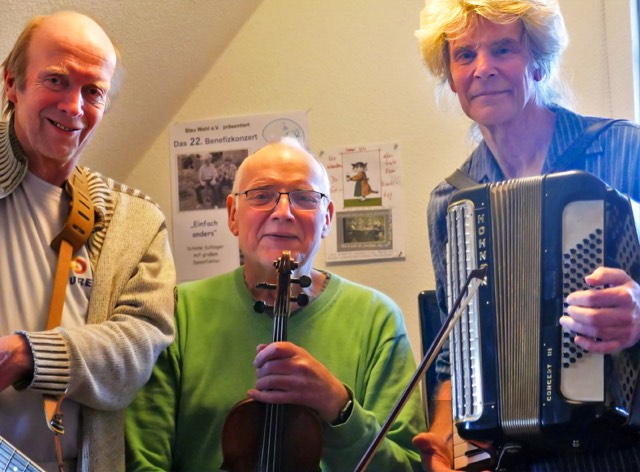
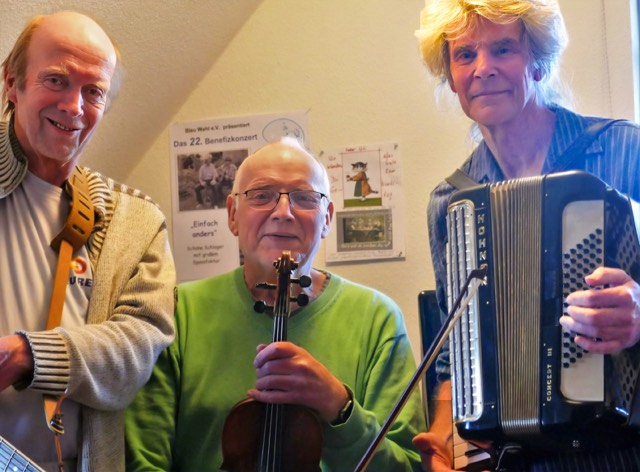
Zweite Endfassung des Oberschliesser-Fotos von Uli
Feine Nachbesserung an Wand und Gesichtern (mittlere Abweichung rund
zwei Stufen von 255). Web-Fassung und Vorschaubild neu gerechnet,
Original als E-Uli-Endfassung-2-original.jpg bei den Varianten.

Claude-Session: https://claude.ai/code/session_014QFZ63DHSQGqZuoW9yPC8P

Changed region(s): [[0.3438, 0.2966, 0.5, 0.5636], [0.4688, 0.5042, 0.5, 0.5339]]

diff --git a/fotos.html b/fotos.html
@@ -46,7 +46,7 @@
       <figure class="tack"><img src="bilder/manni-kehr-klein.jpg?v=1787141324" data-gross="bilder/manni-kehr.jpg?v=1787141324" alt="Manni Kehr mit Mandola im Grünen" loading="lazy"><figcaption>Manni Kehr</figcaption></figure>
       <figure class="tack"><img src="bilder/manni-solo-klein.jpg?v=1787760422" data-gross="bilder/manni-solo.jpg?v=1787760422" alt="Manni Kehr singt mit der Mandola am Mikrofon auf der Bühne" loading="lazy"><figcaption>Manni Kehr am Mikrofon</figcaption></figure>
       <figure class="tack"><img src="bilder/manni-mittelalter-klein.jpg?v=1787760422" data-gross="bilder/manni-mittelalter.jpg?v=1787760422" alt="Manni Kehr im mittelalterlichen Gewand an der Drehleier, neben ihm eine Ritterrüstung" loading="lazy"><figcaption>An der Drehleier</figcaption></figure>
-      <figure class="tack"><img src="bilder/oberschliesser-klein.jpg?v=1788200584" data-gross="bilder/oberschliesser.jpg?v=1788200584" alt="Drei Musiker mit Gitarre, Geige und Akkordeon nebeneinander, rechts Uli Preuss" loading="lazy"><figcaption>Die Arrested Amtsbrüder &amp; der Oberschließer</figcaption></figure>
+      <figure class="tack"><img src="bilder/oberschliesser-klein.jpg?v=1788200858" data-gross="bilder/oberschliesser.jpg?v=1788200858" alt="Drei Musiker mit Gitarre, Geige und Akkordeon nebeneinander, rechts Uli Preuss" loading="lazy"><figcaption>Die Arrested Amtsbrüder &amp; der Oberschließer</figcaption></figure>
       <figure class="tack"><img src="bilder/christina-wolf-klein.jpg?v=1788199203" data-gross="bilder/christina-wolf.jpg?v=1788199219" alt="Christina Wolf sitzt lachend vor einer Backsteinwand" loading="lazy"><figcaption>Christina Wolf, die Wölfin</figcaption></figure>
       <figure class="tack"><img src="bilder/anne-heinz-klein.jpg?v=1788199203" data-gross="bilder/anne-heinz.jpg?v=1788199203" alt="Anne Heinz tanzt im roten Kleid in einer alten Scheune" loading="lazy"><figcaption>Anne Heinz</figcaption></figure>
     </div>

diff --git a/akteure.html b/akteure.html
@@ -80,7 +80,7 @@
       <p>Rainer Wölk starb im Februar 2023. Manni Kehr kam 2022 zunächst als „Oberschließer“ dazu und ist inzwischen zum Amtsbruder aufgestiegen. Als „Ungeküsster Frosch“ bespielte er schon in den 80er Jahren den Amtsschimmel.</p>
     </div>
     <figure class="tack">
-      <img src="bilder/oberschliesser.jpg?v=1788200584" alt="Drei Musiker mit Gitarre, Geige und Akkordeon nebeneinander, rechts Uli Preuss" loading="lazy">
+      <img src="bilder/oberschliesser.jpg?v=1788200858" alt="Drei Musiker mit Gitarre, Geige und Akkordeon nebeneinander, rechts Uli Preuss" loading="lazy">
       <figcaption>Die Arrested Amtsbrüder &amp; der Oberschließer</figcaption>
     </figure>
   </div>
